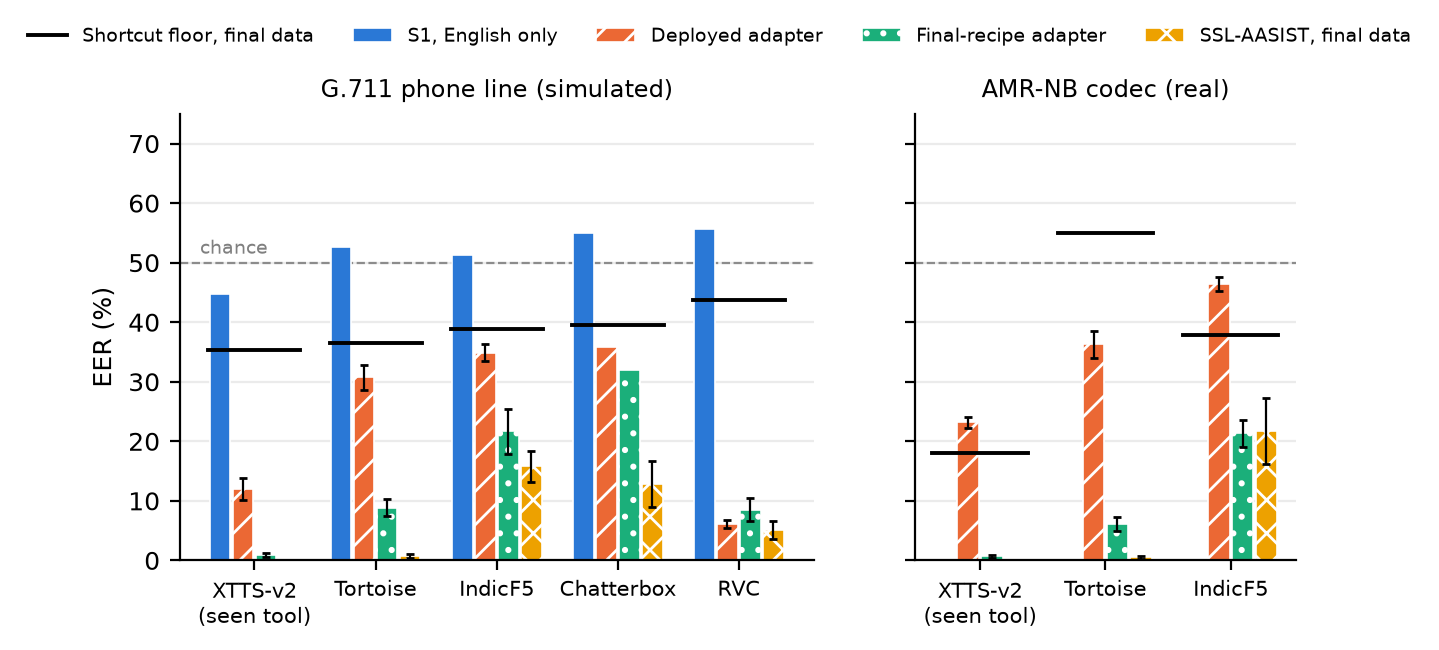
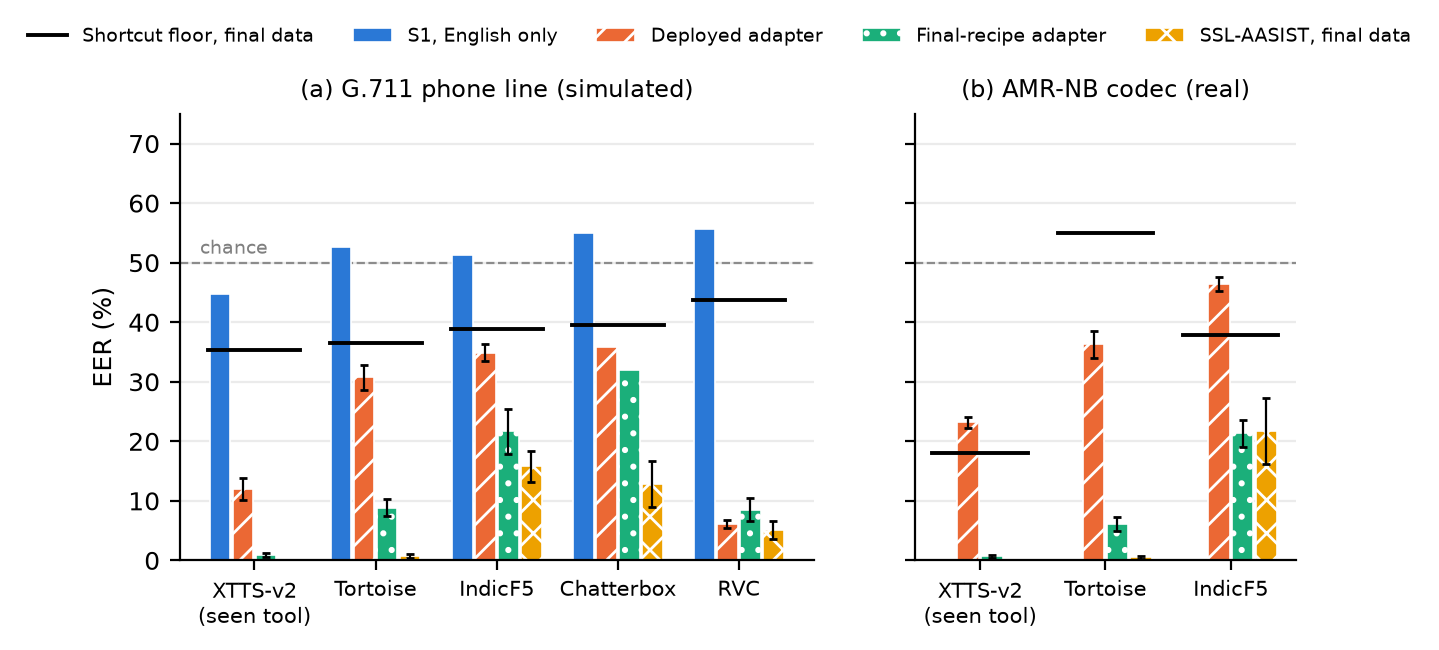
add panel letters and a one-column overview

Changed region(s): [[0.214, 0.1231, 0.4892, 0.1538], [0.6727, 0.1231, 0.8867, 0.1538]]

diff --git a/src/reporting/final_figure.py b/src/reporting/final_figure.py
@@ -125,17 +125,29 @@ def table(root: str | Path = R) -> pd.DataFrame:
     return pd.DataFrame(rows)
 
 
-def figure(out_dir: str = FIGURES_DIR, root: str | Path = R) -> str:
-    """Write ``final_overview.png`` and ``.pdf``; returns the PNG path."""
+#: Shorter tick labels for the one-column version, where the groups are narrow.
+SHORT_TOOLS = {"XTTS-v2\n(seen tool)": "XTTS-v2\n(seen)", "Chatterbox": "Chatter-\nbox"}
+
+
+def figure(out_dir: str = FIGURES_DIR, root: str | Path = R, column: bool = False) -> str:
+    """Write ``final_overview.png`` and ``.pdf``; returns the PNG path.
+
+    ``column=True`` draws the same bars one IEEE column wide (3.5 in) as
+    ``final_overview_column``, for the six-page paper; the numbers are identical.
+    """
     data = table(root)
+    if column:
+        data = data.assign(tool=data["tool"].replace(SHORT_TOOLS))
     plt = _style()
     panels = list(dict.fromkeys(data["panel"]))
     widths = [data[data["panel"] == p]["tool"].nunique() for p in panels]
+    size = (3.5, 2.35) if column else (7.2, 2.9)
+    tick, title, legend_size = (5.6, 6.6, 5.6) if column else (7.5, 8.5, 7)
     fig, axes = plt.subplots(
-        1, len(panels), figsize=(7.2, 2.9), sharey=True, gridspec_kw={"width_ratios": widths}
+        1, len(panels), figsize=size, sharey=True, gridspec_kw={"width_ratios": widths}
     )
     bar = 0.19
-    for ax, panel in zip(axes, panels, strict=True):
+    for k, (ax, panel) in enumerate(zip(axes, panels, strict=True)):
         part = data[data["panel"] == panel]
         tools = list(dict.fromkeys(part["tool"]))
         for j, system in enumerate(SYSTEMS):
@@ -170,23 +182,30 @@ def figure(out_dir: str = FIGURES_DIR, root: str | Path = R) -> str:
                 label="Shortcut floor, final data" if i == 0 else None,
             )
         ax.axhline(50, ls="--", lw=0.8, color="grey", zorder=1)
-        ax.set_xticks(range(len(tools)), tools, fontsize=7.5)
-        ax.set_title(panel, fontsize=8.5)
+        ax.set_xticks(range(len(tools)), tools, fontsize=tick)
+        # (a), (b): the captions and the text refer to the panels by letter
+        ax.set_title(f"({chr(ord('a') + k)}) {panel}", fontsize=title)
         ax.set_ylim(0, 75)
         ax.grid(axis="x", visible=False)
-    axes[0].set_ylabel("EER (%)")
-    axes[0].text(-0.45, 51.5, "chance", fontsize=7, color="grey")
+        if column:
+            ax.tick_params(axis="y", labelsize=tick)
+    axes[0].set_ylabel("EER (%)", fontsize=title if column else None)
+    axes[0].text(-0.45, 51.5, "chance", fontsize=legend_size, color="grey")
     handles, labels = axes[0].get_legend_handles_labels()
     fig.legend(
         handles,
         labels,
         loc="upper center",
-        ncol=5,
-        fontsize=7,
+        ncol=3 if column else 5,
+        fontsize=legend_size,
         frameon=False,
-        bbox_to_anchor=(0.5, 1.06),
+        bbox_to_anchor=(0.5, 1.07 if column else 1.06),
+        columnspacing=0.9 if column else 2.0,
+        handlelength=1.6 if column else 2.0,
     )
-    out = Path(out_dir) / "final_overview.png"
+    if column:
+        fig.subplots_adjust(left=0.11, right=0.995, bottom=0.17, top=0.84, wspace=0.06)
+    out = Path(out_dir) / ("final_overview_column.png" if column else "final_overview.png")
     out.parent.mkdir(parents=True, exist_ok=True)
     fig.savefig(out, dpi=DPI)
     fig.savefig(out.with_suffix(".pdf"))
